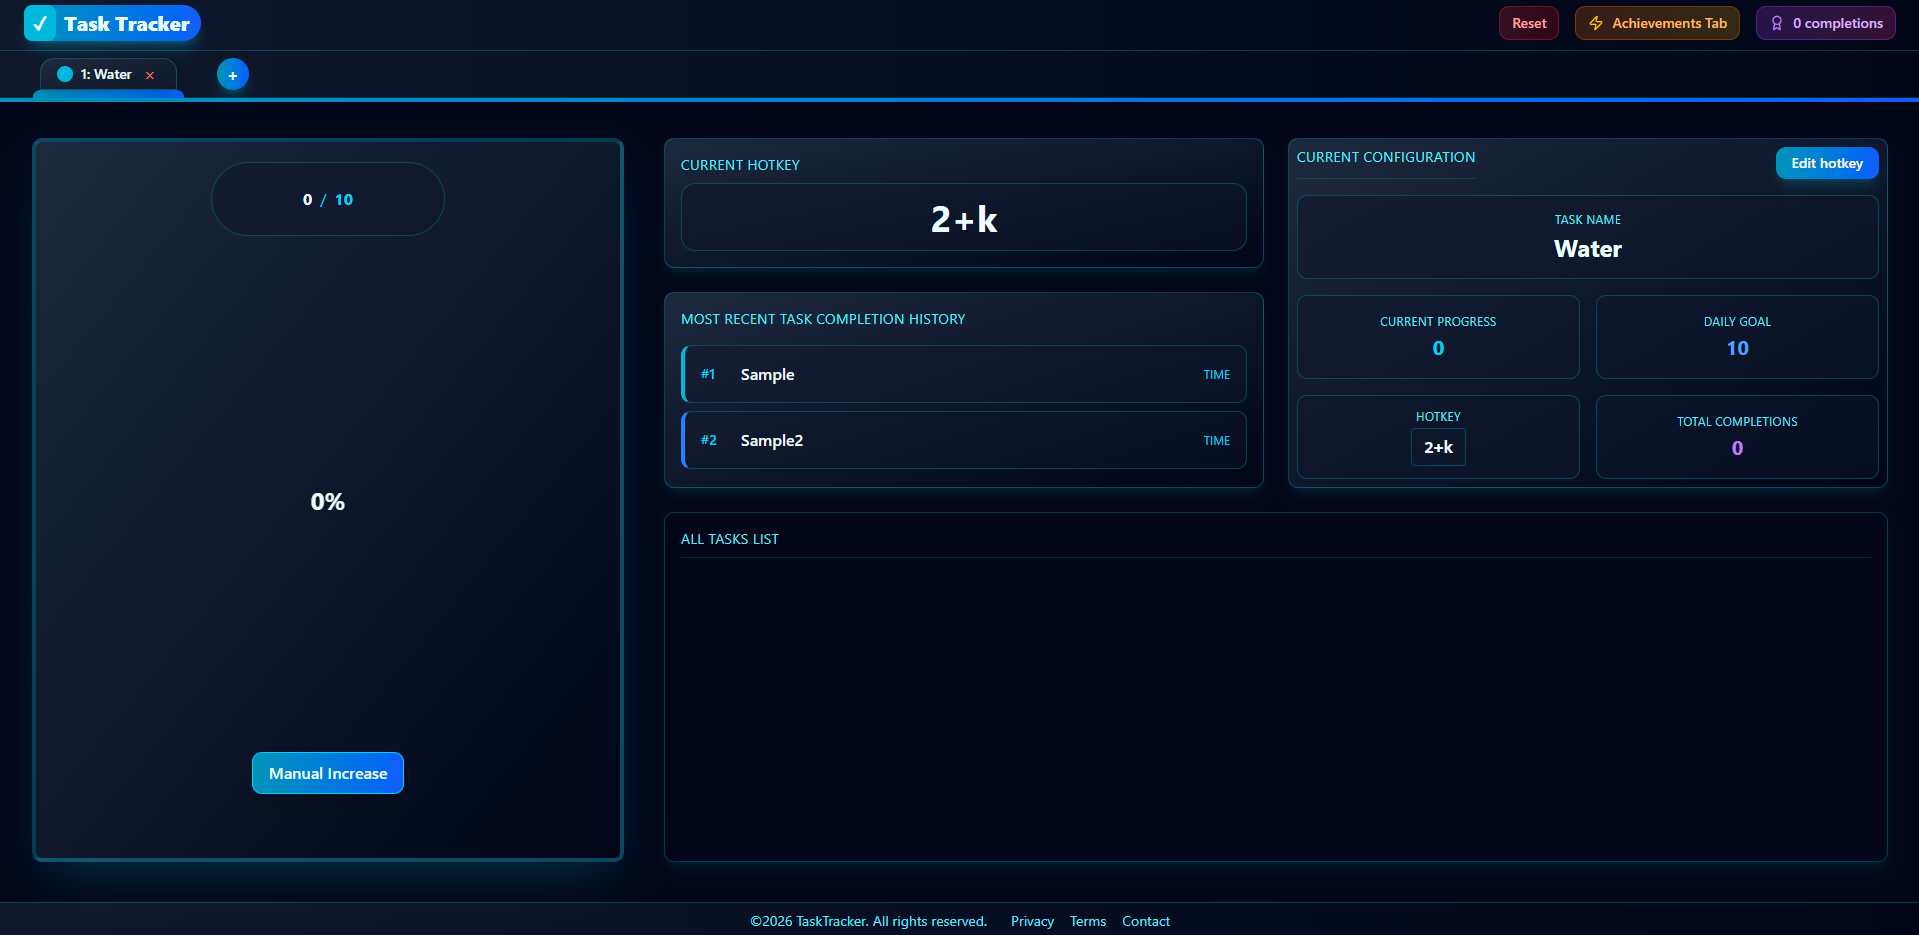
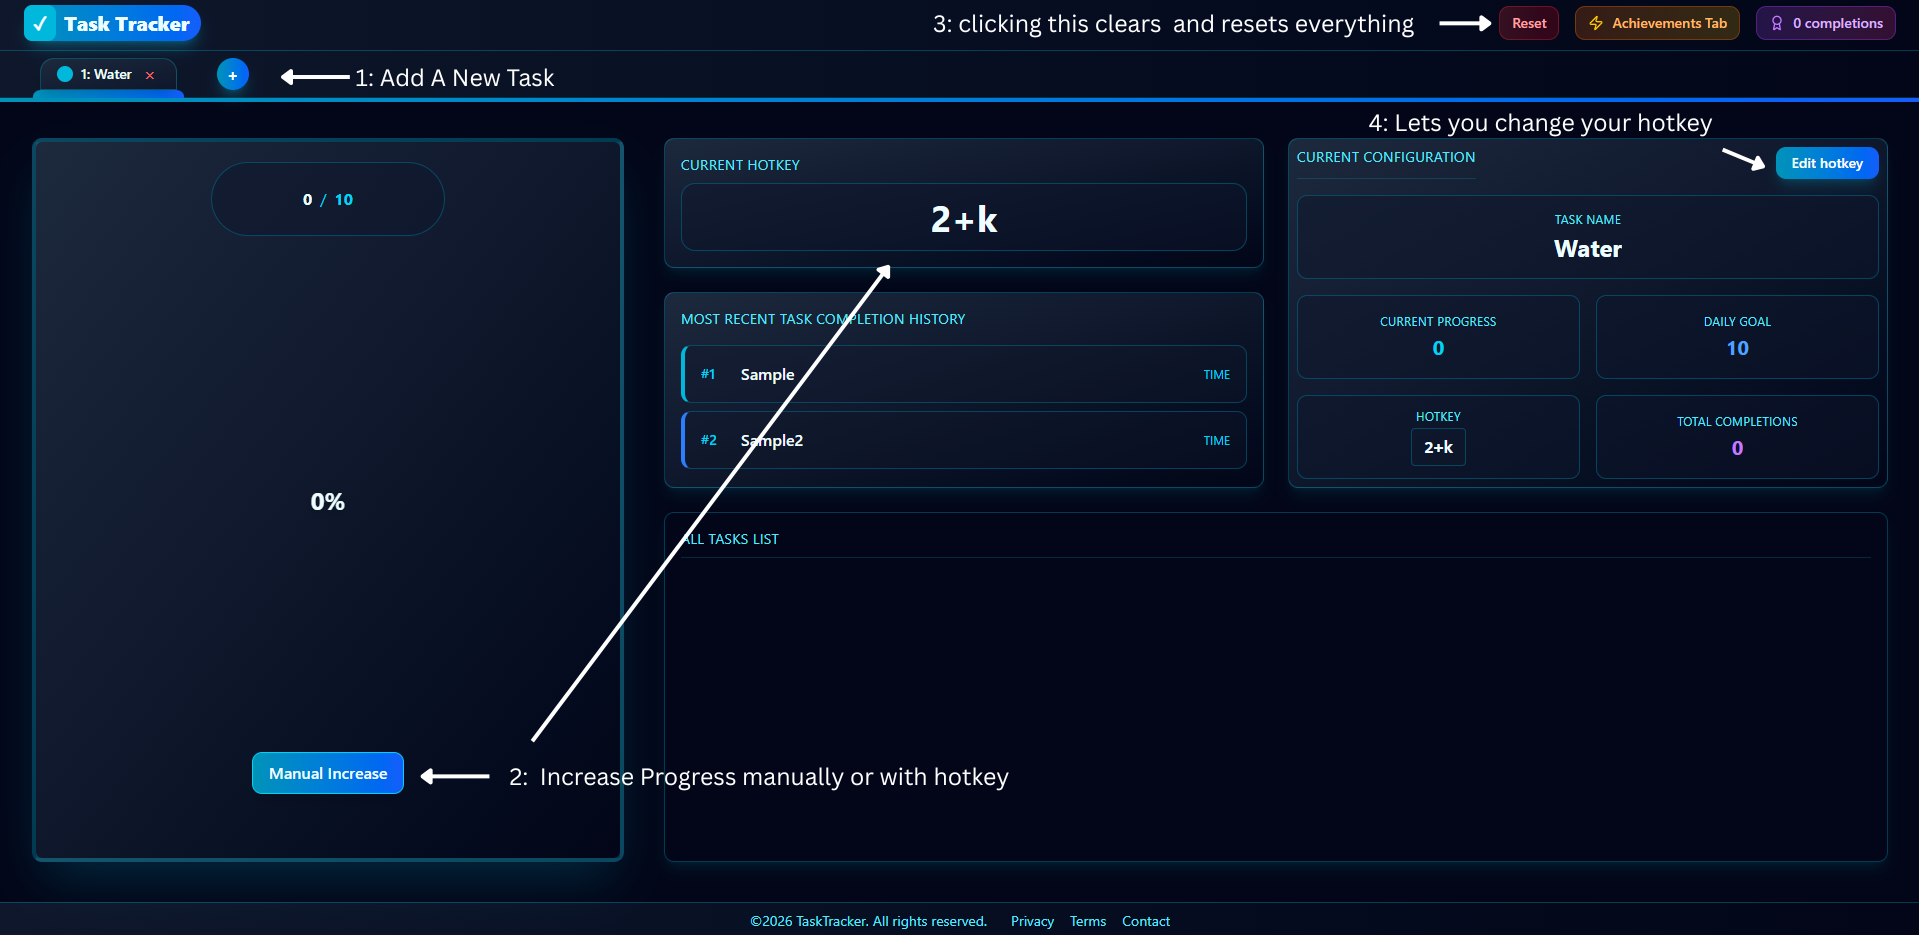
Fixing minor issues mainly ui

diff --git a/README.md b/README.md
@@ -1,2 +1,3 @@
-HOW TO USE
+REFER TO IMAGE FOR INSTRUCTIONS ON HOW TO USE IT:
+
 ![Screenshot](public/screenshot.png)
